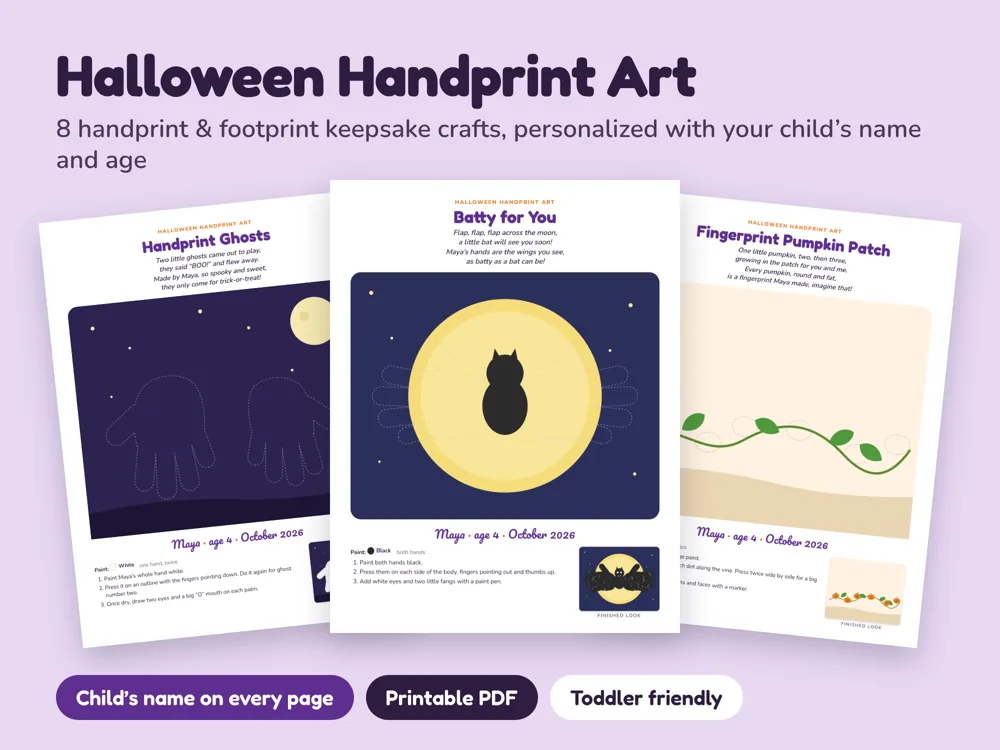
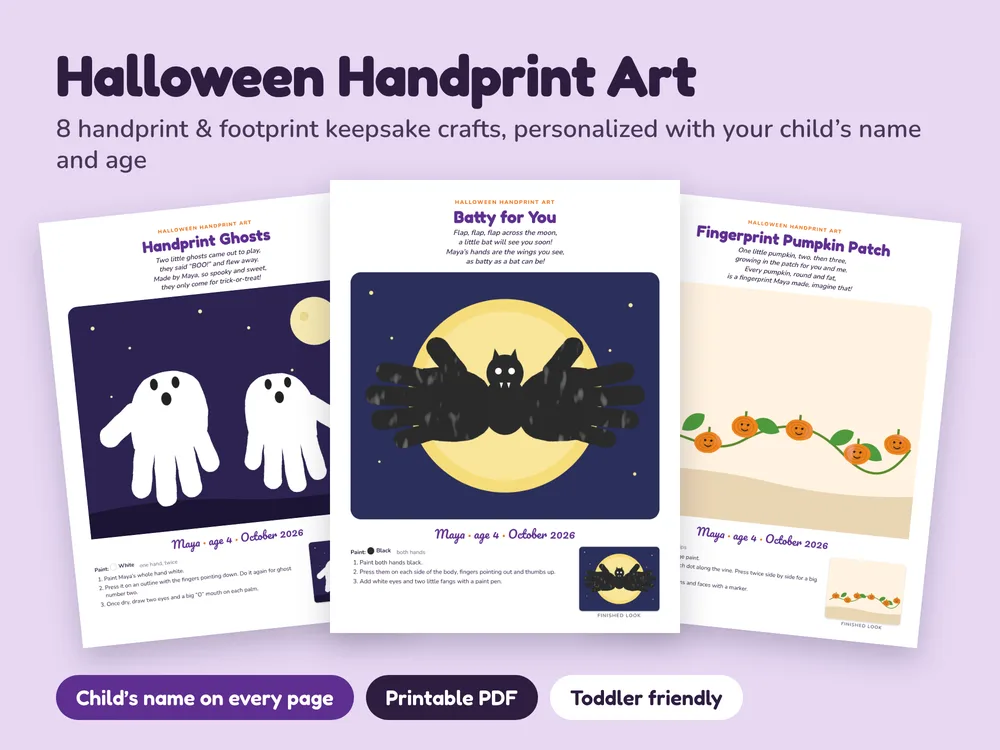
More to print cards show the pizza stand photo and painted handprints
The play kits card uses the styled pizza-stand photo instead of the flat
pizza page, and the Christmas and Halloween handprint pictures show the
prints painted in instead of empty outlines.

Claude-Session: https://claude.ai/code/session_0173h1hYSfb5tEDwSwiuTDRX

diff --git a/scripts/craft-photos.js b/scripts/craft-photos.js
@@ -4,6 +4,9 @@
 // craft-<id>-inside.jpg (all 8 crafts), craft-<id>-p01.jpg... (one per page) and docs/img/craft-<id>.png
 // (save that as a 1000x750 WebP, q82, for the website).
 // The Memory Handprint Book gets a grid of all its pages instead, shown with the prints painted in.
+// Holiday packs' main picture (the website card) also shows the prints painted in (Jason,
+// 2026-10-26: handprint previews without handprints looked lame); the inside and page photos keep
+// the real printable pages.
 const fs = require('fs');
 const os = require('os');
 const path = require('path');
@@ -34,14 +37,14 @@ h1 { font: 700 58px/1 Fredoka; margin: 0; letter-spacing: -.01em; }
 // The three craft pages fanned out on the main photo, the middle one in front.
 const FAN = { halloween: [2, 5, 9], christmas: [2, 3, 5] };
 
-function shots(h, dir) {
-  const p = (n) => png(path.join(dir, `page-${n}.png`));
+function shots(h, dir, done) {
+  const p = (n, d = dir) => png(path.join(d, `page-${n}.png`));
   const [left, middle, right] = FAN[h.id] || [2, 3, 5];
   const main = `<div class="top"><h1>${h.name} Handprint Art</h1>
       <div class="sub">8 handprint &amp; footprint keepsake crafts, personalized with your child’s name and age</div></div>
-    <div class="page" style="left:60px;top:205px;width:330px;transform:rotate(-6deg)"><img src="${p(left)}"></div>
-    <div class="page" style="left:610px;top:205px;width:330px;transform:rotate(6deg)"><img src="${p(right)}"></div>
-    <div class="page" style="left:330px;top:180px;width:350px;z-index:2"><img src="${p(middle)}"></div>
+    <div class="page" style="left:60px;top:205px;width:330px;transform:rotate(-6deg)"><img src="${p(left, done)}"></div>
+    <div class="page" style="left:610px;top:205px;width:330px;transform:rotate(6deg)"><img src="${p(right, done)}"></div>
+    <div class="page" style="left:330px;top:180px;width:350px;z-index:2"><img src="${p(middle, done)}"></div>
     <div style="position:absolute;left:56px;bottom:30px;right:56px;display:flex;gap:12px;z-index:3">
       <span class="pill">Child’s name on every page</span><span class="pill" style="background:${h.colors.ink}">Printable PDF</span><span class="pill" style="background:#fff;color:${h.colors.ink}">Toddler friendly</span></div>`;
   const inside = `<div class="top" style="top:34px;text-align:center"><h1 style="font-size:46px">8 crafts + cards + poem page</h1>
@@ -83,12 +86,10 @@ function bookShots(h, dir, plain) {
     const h = HOLIDAYS[id];
     const dir = fs.mkdtempSync(path.join(os.tmpdir(), `craft-${id}-`));
     await renderHtml(buildCraftHtml({ holiday: id, childName: 'Maya', age: 4, year: 2026, preview: h.book }), path.join(dir, 'pack.pdf'), { pngDir: dir });
-    let plain = null;
-    if (h.book) {
-      plain = fs.mkdtempSync(path.join(os.tmpdir(), `craft-${id}-plain-`));
-      await renderHtml(buildCraftHtml({ holiday: id, childName: 'Maya', age: 4, year: 2026 }), path.join(plain, 'pack.pdf'), { pngDir: plain });
-    }
-    for (const [name, html] of Object.entries(h.book ? bookShots(h, dir, plain) : shots(h, dir))) {
+    // books: the plain pages for the "inside" picture; holiday packs: the painted pages for the main one
+    const plain = fs.mkdtempSync(path.join(os.tmpdir(), `craft-${id}-other-`));
+    await renderHtml(buildCraftHtml({ holiday: id, childName: 'Maya', age: 4, year: 2026, preview: !h.book }), path.join(plain, 'pack.pdf'), { pngDir: plain });
+    for (const [name, html] of Object.entries(h.book ? bookShots(h, dir, plain) : shots(h, dir, plain))) {
       await page.setContent(`<!doctype html><meta charset="utf-8"><style>${css(h)}</style>${html}`);
       await page.waitForTimeout(150);
       await page.screenshot({ path: path.join(OUT, `${name}.jpg`), type: 'jpeg', quality: 80 });
@@ -101,7 +102,7 @@ function bookShots(h, dir, plain) {
     }
     fs.copyFileSync(path.join(dir, 'site.png'), path.join(ROOT, 'docs', 'img', `craft-${id}.png`));
     fs.rmSync(dir, { recursive: true, force: true });
-    if (plain) fs.rmSync(plain, { recursive: true, force: true });
+    fs.rmSync(plain, { recursive: true, force: true });
   }
   await browser.close();
 })();

diff --git a/docs/index.html b/docs/index.html
@@ -233,7 +233,7 @@
     <div class="wrap">
       <div class="pin"><b></b><span class="eyebrow">More to print</span></div>
       <div class="more-cards">
-        <a class="theme shop-card" href="play-kits/"><img decoding="async" src="img/kit-pizza.webp" alt="Pizza Shop play kit pages" width="677" height="497" loading="lazy"><h3>Pretend shops to set up at home</h3><p>Eighteen play kits like a pizza shop, a doctor’s clinic and a puppet theater, $7.99 each.</p><span class="see">See the play kits</span></a>
+        <a class="theme shop-card" href="play-kits/"><img decoding="async" src="img/life/pizza-stand-sm.webp" srcset="img/life/pizza-stand-sm.webp 640w, img/life/pizza-stand.webp 1200w" sizes="(max-width: 760px) 92vw, 360px" width="640" height="478" alt="The printed Pizza Shop play kit set up on a wooden play stand with a pizza, menu and Open sign" loading="lazy"><h3>Pretend shops to set up at home</h3><p>Eighteen play kits like a pizza shop, a doctor’s clinic and a puppet theater, $7.99 each.</p><span class="see">See the play kits</span></a>
         <a class="theme shop-card" href="handprint-art/"><img decoding="async" src="img/craft-christmas.webp" alt="Christmas handprint art pages" width="1000" height="750" loading="lazy"><h3>Handprint keepsakes</h3><p>Handprint and fingerprint crafts with their name and age, ready to frame. From $5.99.</p><span class="see">See the handprint art</span></a>
       </div>
     </div>

diff --git a/src/crafts/build.js b/src/crafts/build.js
@@ -3,7 +3,8 @@
 //
 // cfg = { holiday: 'halloween' | 'christmas' | 'memory', childName: 'Maya', age?: 4, year?: 2026, preview?: true }
 // Books (memory.js, zoo.js, fingerprint.js) are a frameable page per craft instead. preview shows
-// every page with the prints already painted, for listing photos.
+// every page with the prints already painted, for listing photos and the website (books and
+// holiday packs alike).
 // Returns one Letter-size HTML document of `.page` sections (rendered by src/generator/render.js).
 // Each craft page has a faint dashed outline where to press, a poem, and a small finished example.
 
@@ -59,7 +60,7 @@ function craftPage(h, craft, ctx, clean = false) {
     <div class="kicker">${esc(h.kicker)}</div>
     <h1>${esc(craft.title)}</h1>
     <p class="poem">${craft.poem.map((l) => fill(l, ctx)).join('<br>')}</p>
-    <div class="panel">${panel(craft, clean ? 'clean' : 'page')}</div>
+    <div class="panel">${panel(craft, clean ? 'clean' : ctx.preview ? 'example' : 'page')}</div>
     <div class="keep">${keepsakeLine(ctx)}</div>
     <div class="how">
       <div class="steps">

diff --git a/notes/PROJECT-NOTES.md b/notes/PROJECT-NOTES.md
@@ -85,6 +85,8 @@ Work that is about to merge or is mid-merge, so sessions on the other account ca
   - After new big pictures are imported for a theme, re-run `node scripts/hero-scenes.js <theme>` (the previews workflow does it on its own when kit code changes).
 - **Order stack** on make/ ("What's in your order"): the play kit paper on top is now the wow prop page (`img/gallery/<theme>/[little/]kit-3.webp`, set in `drawCart()` in `docs/js/make.js`) instead of the first toy page. The home page's name hook still uses `img/pages/<theme>-kit.webp`, because it has to show the typed name and the wow page has none.
 
+- **"More to print" cards on the home page** (2026-10-26, Jason: "the hand print ones dont have handprints on and the pizza is the lame vector one"). The play kits card now shows the styled pizza-stand photo (`img/life/pizza-stand*.webp`) instead of `kit-pizza.webp` (still used on the play-kits page). The Christmas and Halloween handprint pictures (`docs/img/craft-<id>.webp` and the Etsy main photo) now show the prints painted in: `buildCraftHtml({ preview: true })` paints holiday craft pages too (it used to only affect books), and `scripts/craft-photos.js` uses those painted pages for the main picture only; the inside and page photos stay the real printable pages. After running it, save `docs/img/craft-<id>.png` as a 1000x750 WebP (q82) and `git checkout` the re-encoded `listing-assets` page photos.
+
 ### Site previews rebuild themselves (2026-10-24)
 - Jason asked for previews to update whenever a kit changes. `.github/workflows/previews.yml` runs on pushes to main that touch `src/kits`, `src/generator`, `src/party`, `src/crafts`, `src/host` or the preview scripts. `scripts/preview-targets.js` maps changed files to themes (a kit's own defs or art: just that kit and its hunt theme; shared code: all), it runs gallery-images, craft-gallery (only for all), site-images and hero-scenes in the required order, `scripts/keep-changed-images.py` puts back images that only re-encoded, and it commits "Site previews: ..." and asks Pages to rebuild. It diffs from its own last commit, so nothing is missed when pushes overlap. Run it by hand from the Actions tab (Site previews, input `all` or theme names).
 - So threads no longer need to run the preview scripts themselves after a kit change, but a full run takes over an hour; check the Actions tab if previews look stale.
